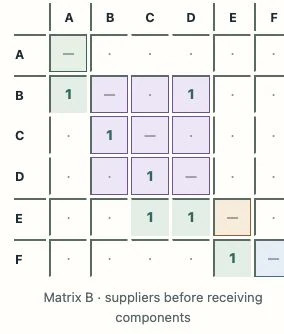
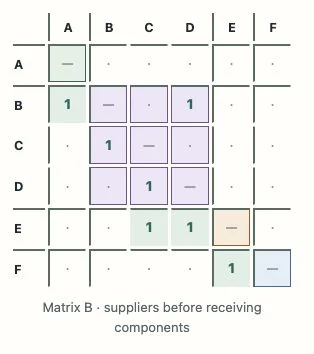
Keep pictures first on phones and contain preview focus

diff --git a/assets/main.scss b/assets/main.scss
@@ -604,12 +604,16 @@ body:has(.pw-home) { background: #f8f6ef; }
 
 /* A compact visual entrance; source apps and the two main navigation routes stay put. */
 .viz-explorer [hidden] { display: none !important; }
-.viz-heading { padding: 30px 0 20px; max-width: 760px; }
-.viz-return { display: inline-block; font-size: 13px; padding: 8px 0; margin-bottom: 18px; }
-.viz-heading h1 { font: 400 clamp(38px, 5vw, 62px)/1.1 Georgia, serif; letter-spacing: -.035em; margin: 10px 0 15px; }
+.viz-heading { padding: 20px 0 18px; max-width: 760px; }
+.viz-return { display: inline-block; font-size: 13px; padding: 8px 0; margin-bottom: 6px; }
+.viz-heading h1 { font: 400 clamp(36px, 4vw, 48px)/1.1 Georgia, serif; letter-spacing: -.035em; margin: 6px 0 12px; }
 .viz-heading > p { font-size: 16px; line-height: 1.6; margin: 0 0 10px; }
 .viz-heading > .viz-note { font-size: 13px; color: var(--pw-muted); }
 .viz-controls { border-block: 1px solid var(--pw-line); padding: 19px 0 10px; margin: 0 0 24px; }
+.viz-filter-disclosure > summary { padding: 12px 0; min-height: 44px; box-sizing: border-box; cursor: pointer; font-size: 13px; color: #365b42; }
+.viz-filter-disclosure { margin-bottom: 22px; }
+.viz-filter-disclosure > summary:focus-visible { outline: 3px solid #ad751d; outline-offset: 4px; }
+@media (min-width: 761px) { .viz-filter-disclosure > summary { display: none; } .viz-filter-disclosure:not([open]) > .viz-controls { display: block; } }
 .viz-search-row { display: flex; gap: 18px; align-items: end; }
 .viz-search { flex: 1; max-width: 560px; }
 .viz-controls label, .viz-topics legend { display: block; font-size: 12px; font-weight: 600; color: var(--pw-muted); margin: 0 0 7px; }
@@ -669,6 +673,8 @@ body:has(.pw-home) { background: #f8f6ef; }
 .viz-library-copy > strong { font: 400 32px/1.2 Georgia, serif; margin: 9px 0 12px; }
 .viz-library-copy > span:last-child { font-size: 14px; line-height: 1.7; color: var(--pw-muted); }
 @media (max-width: 760px) {
+  .viz-filter-disclosure { border-block: 1px solid var(--pw-line); }
+  .viz-filter-disclosure .viz-controls { border: 0; margin-bottom: 0; padding-top: 8px; }
   .viz-search-row { flex-direction: column; align-items: stretch; gap: 12px; }
   .viz-search { max-width: none; }
   .viz-controls select { width: 100%; }

diff --git a/assets/visual-explorer.js b/assets/visual-explorer.js
@@ -132,6 +132,11 @@
     });
   });
   get('viz-controls').hidden = false;
+  const filters = get('viz-filters');
+  filters.hidden = false;
+  const wideScreen = window.matchMedia('(min-width: 761px)');
+  filters.open = wideScreen.matches || Boolean(state.q || state.topic !== 'all' || state.kind !== 'all');
+  wideScreen.addEventListener('change', event => { if (event.matches) filters.open = true; });
   get('viz-controls').addEventListener('submit', event => event.preventDefault());
   search.addEventListener('input', () => {
     const cursor = search.selectionStart;
@@ -164,6 +169,15 @@
   get('viz-previous').addEventListener('click', () => step(-1));
   get('viz-next').addEventListener('click', () => step(1));
   dialog.addEventListener('keydown', event => {
+    if (event.key === 'Tab') {
+      const focusable = Array.from(dialog.querySelectorAll('a[href], button:not([disabled])'))
+        .filter(element => element.getClientRects().length && !element.closest('[hidden]'));
+      const first = focusable[0];
+      const last = focusable[focusable.length - 1];
+      if (event.shiftKey && document.activeElement === first) { event.preventDefault(); last.focus(); }
+      else if (!event.shiftKey && document.activeElement === last) { event.preventDefault(); first.focus(); }
+      return;
+    }
     if (event.altKey || event.ctrlKey || event.metaKey || event.shiftKey) return;
     if (event.key === 'ArrowLeft' || event.key === 'ArrowRight') {
       event.preventDefault(); step(event.key === 'ArrowLeft' ? -1 : 1);
@@ -171,6 +185,7 @@
   });
   window.addEventListener('popstate', () => {
     state = readState(location.search, items);
+    if (state.q || state.topic !== 'all' || state.kind !== 'all') filters.open = true;
     renderGrid();
     if (state.view) openPreview(state.view);
     else if (dialog.open) dialog.close();

diff --git a/explore-visually.md b/explore-visually.md
@@ -10,12 +10,13 @@ home_front_door: true
 <div class="pw-home viz-explorer" id="home-main" tabindex="-1" data-baseurl="{{ site.baseurl | escape }}">
   <header class="viz-heading">
     <a class="viz-return" href="{{ '/library.html' | relative_url }}">← Library</a>
-    <p class="pw-home-kicker">A different way in</p>
     <h1>Explore visually.</h1>
     <p>Find a picture that helps you think. Open it, see what to look for, then explore the original example.</p>
     <p class="viz-note">A first selection of {{ site.data.visualisations | size }} views from across the published work, including earlier examples. More to come.</p>
   </header>
 
+  <details class="viz-filter-disclosure" id="viz-filters" hidden>
+  <summary>Search &amp; filters</summary>
   <form class="viz-controls" id="viz-controls" role="search" aria-label="Find a visualisation" hidden>
     <div class="viz-search-row">
       <div class="viz-search"><label for="viz-search">Search pictures, questions or projects</label><input type="search" id="viz-search" placeholder="Try resources, cows, feedback…" autocomplete="off"></div>
@@ -31,6 +32,7 @@ home_front_door: true
     </div></fieldset>
     <div class="viz-results-line"><p id="viz-count" role="status" aria-live="polite" tabindex="-1"></p><button type="reset" class="viz-reset" id="viz-reset" hidden>Clear filters</button></div>
   </form>
+  </details>
 
   <noscript><p>Each picture links directly to its original example. Enable JavaScript for enlarged previews, search and filters.</p></noscript>
   <div class="viz-grid" id="viz-grid" aria-label="Visualisations">
